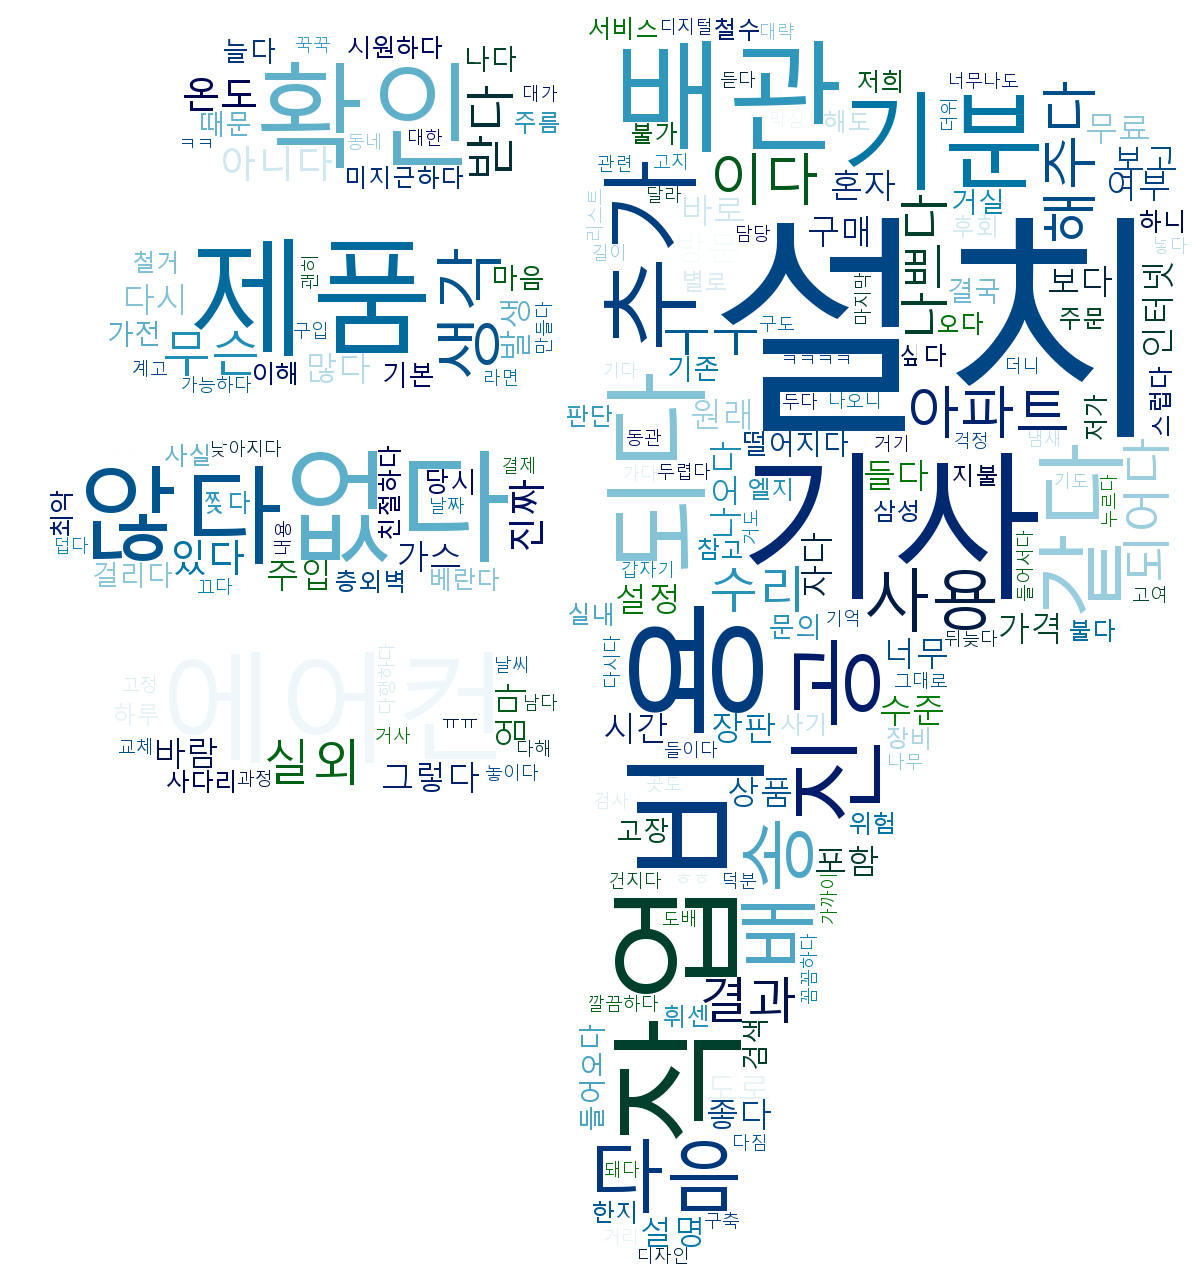
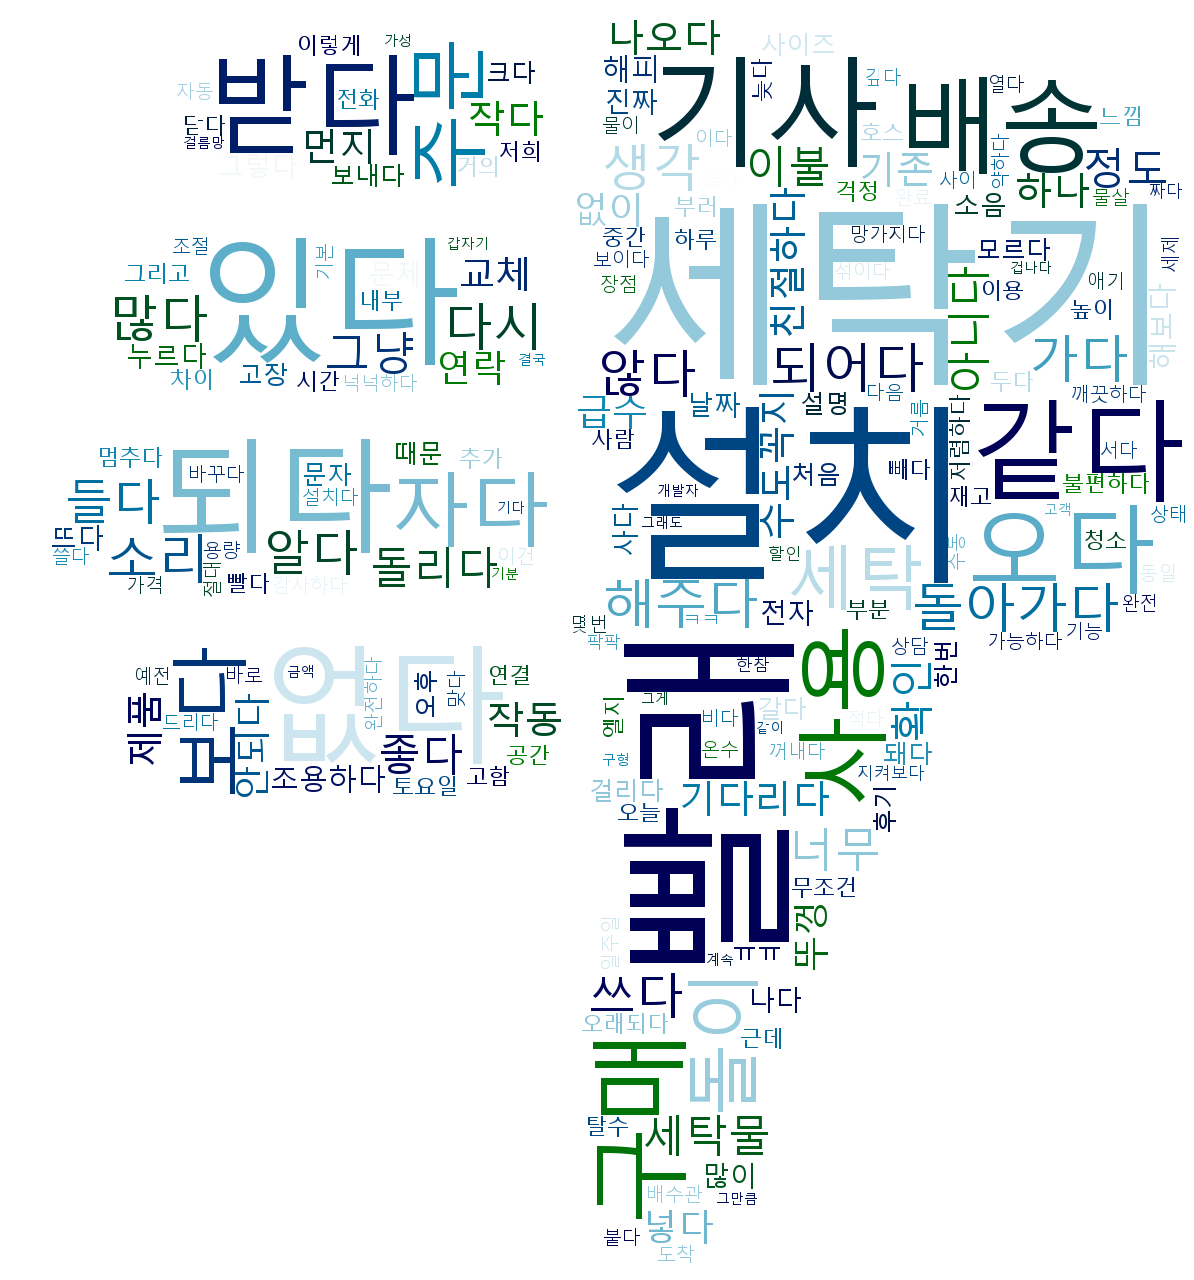
20230502 14:51

diff --git a/bert_project/main/views.py b/bert_project/main/views.py
@@ -108,7 +108,7 @@ def reviews(request):
     counter = Counter(bad_token)
     bad_frequency = counter.most_common(n)
 
-    font_path = r'C:/Windows/Fonts/malgun.ttf'
+    font_path = r'C:/Windows/Fonts/malgunbd.ttf'
 
 
     icon = Image.open('./media/thumb_up.png')
